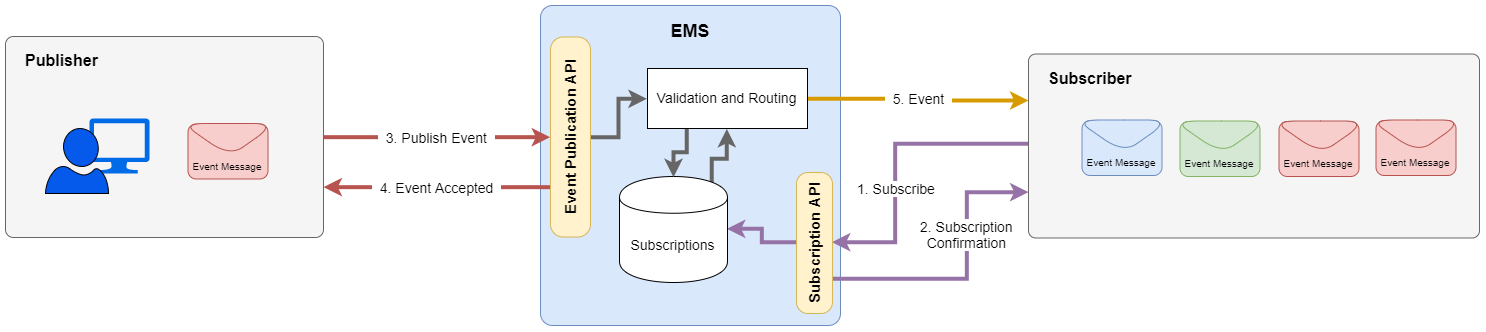
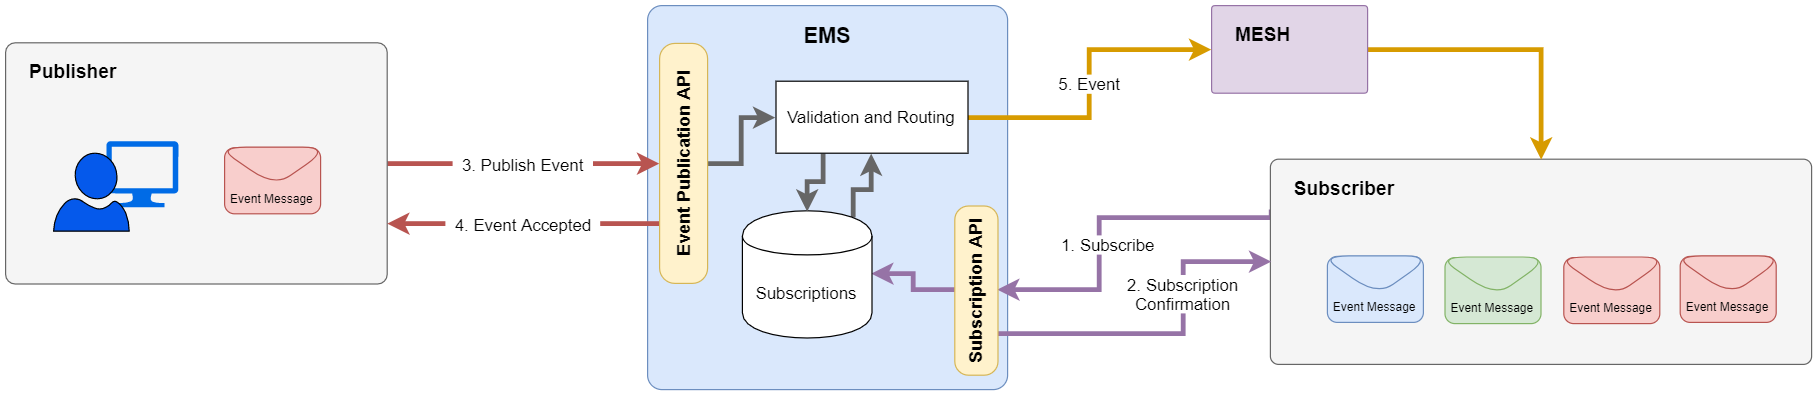
Based on feedback, updated messaging Architecture overview page with MESH in diagram, removed delivery method other than MESH from wording and added a link to the messaging pattern page on the developer network.

diff --git a/pages/explore/msg_architecture_overview.md b/pages/explore/msg_architecture_overview.md
@@ -27,6 +27,7 @@ The National Events Management Service (NEMS) is based on a Publish and Subscrib
 - a publisher sends an event message to the messaging service without being concerned who will receive the message
 - a subscriber is a system which would like to receive event messages that match a set of criteria such as matching a specific event type or the patient having a specific identifier
 
+More information around the messaging pattern is available on the NHS Digital developer network [Integration Patterns](https://developer.nhs.uk/library/architecture/integration-patterns/) pages.
 
 ## Publishers
 
@@ -46,5 +47,5 @@ A subscriber can use the [subscription API](explore_create_subscription.html) wi
 
 ## Delivery Of Event Messages
 
-Onward delivery to subscribers will initially be over MESH, although other delivery channels may be developed in future if there is a demand for them. For further information relating to MESH see [Message Exchange for Social Care and Health (MESH)](https://digital.nhs.uk/message-exchange-social-care-health).
+Onward delivery to subscribers will be over MESH. For further information relating to MESH see [Message Exchange for Social Care and Health (MESH)](https://digital.nhs.uk/message-exchange-social-care-health).
 
